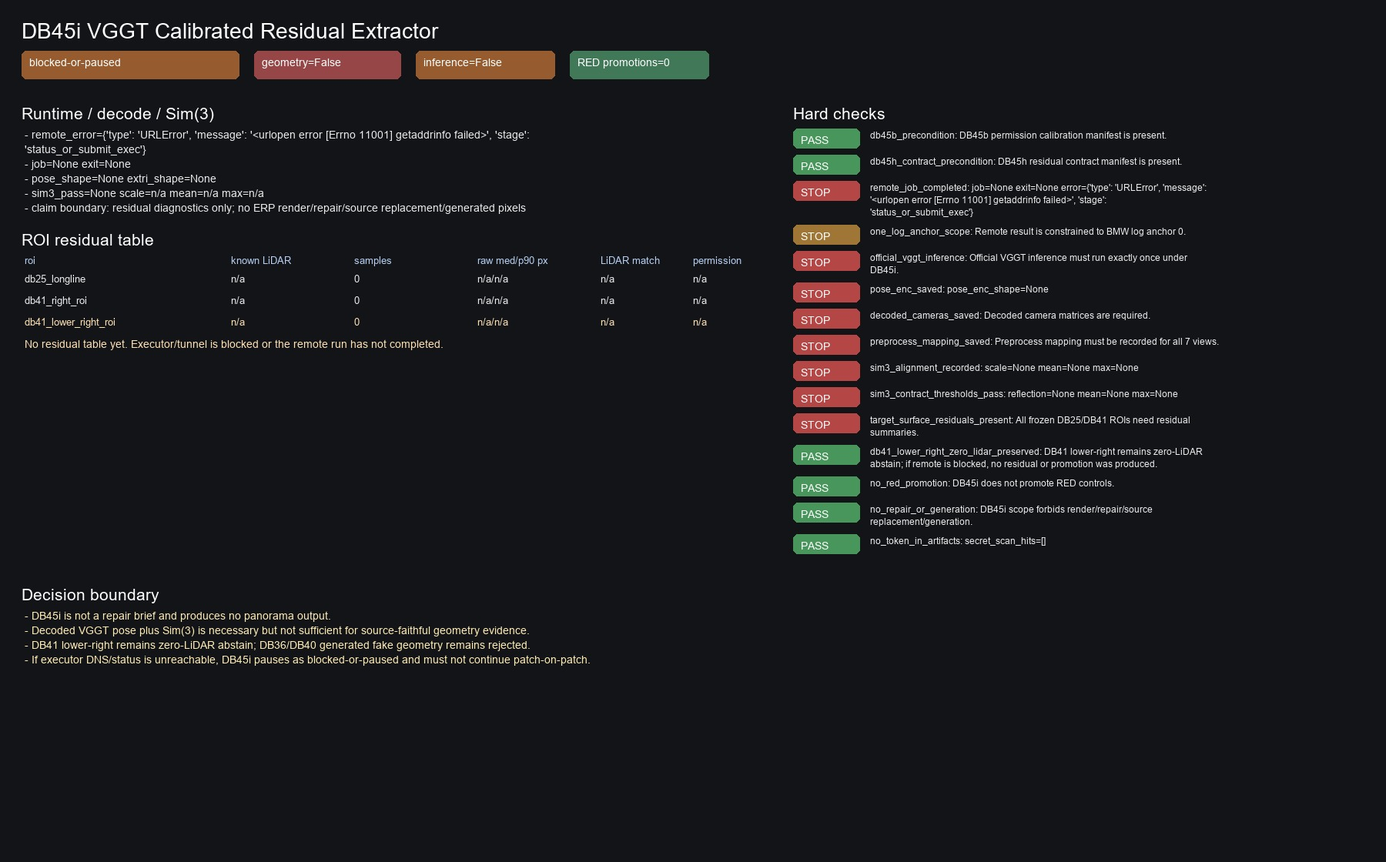
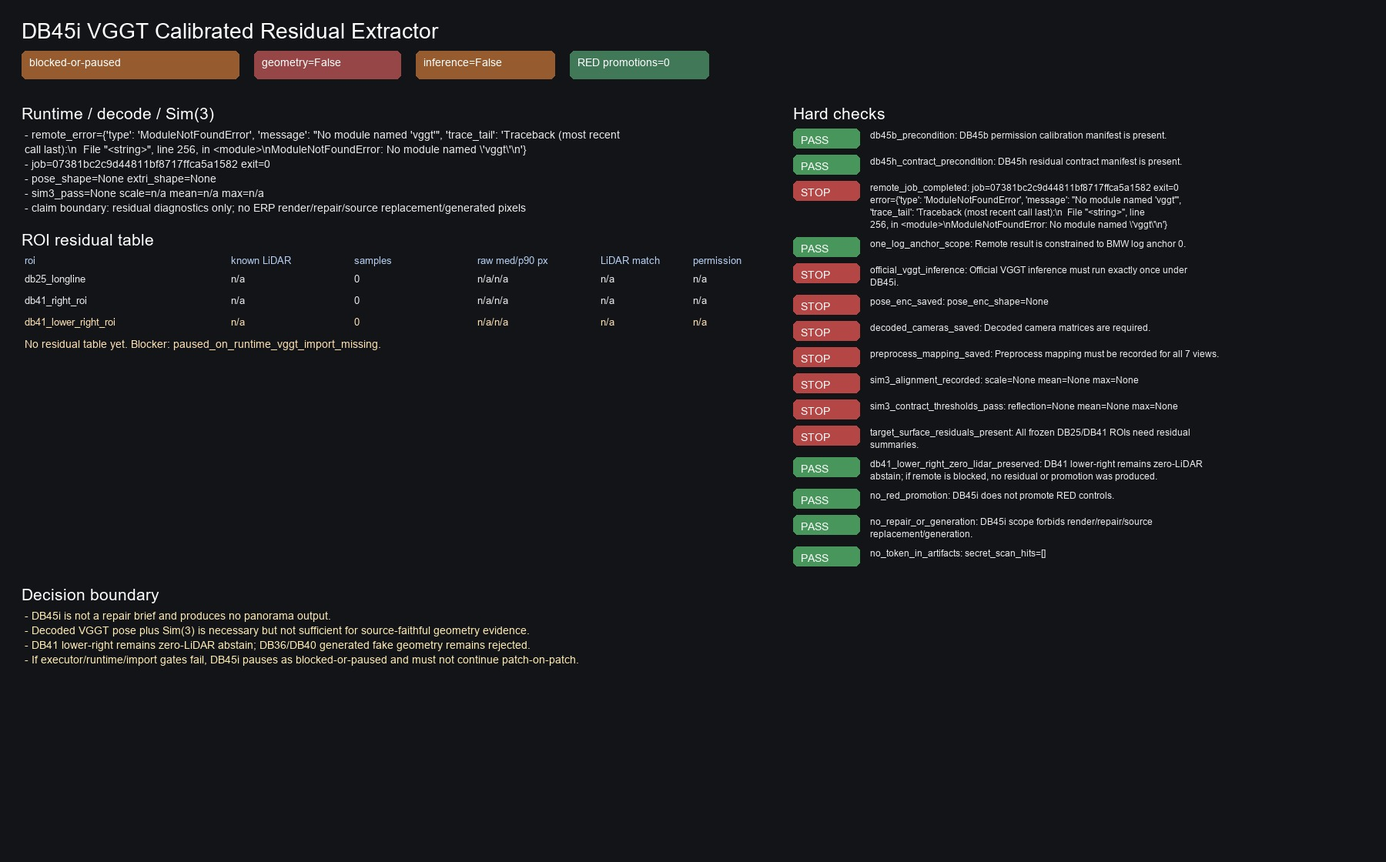
Record DB45i runtime import blocker

diff --git a/scripts/phase3/db45i_vggt_calibrated_residual_extractor.py b/scripts/phase3/db45i_vggt_calibrated_residual_extractor.py
@@ -829,6 +829,20 @@ def build_checks(remote: dict[str, Any], secret_hits: list[dict[str, str]]) -> l
     ]
 
 
+def classify_blocked_status(remote: dict[str, Any]) -> str:
+    error = remote.get("error") or {}
+    err_type = str(error.get("type") or "")
+    message = str(error.get("message") or "")
+    stage = str(error.get("stage") or "")
+    if err_type in {"URLError", "WebException"} or stage == "status_or_submit_exec" or "getaddrinfo" in message:
+        return "paused_on_executor_dns_or_connectivity"
+    if err_type == "ModuleNotFoundError" and "vggt" in message.lower():
+        return "paused_on_runtime_vggt_import_missing"
+    if remote.get("colab_job", {}).get("state"):
+        return "paused_on_remote_runtime_or_extractor_blocker"
+    return "blocked_or_paused_no_remote_result"
+
+
 def build_manifest() -> dict[str, Any]:
     remote = read_json(REMOTE_RESULT) if REMOTE_RESULT.exists() else {
         "db": "DB-45i",
@@ -903,7 +917,7 @@ def build_manifest() -> dict[str, Any]:
         temp["decision"]["db45_status"] = "running"
     else:
         temp["decision"]["accepted_evidence_type"] = "blocked-or-paused"
-        temp["decision"]["db45_status"] = "paused_on_executor_dns"
+        temp["decision"]["db45_status"] = classify_blocked_status(remote)
     if geometry_accepted:
         temp["decision"]["geometry_candidate_note"] = "All extractor hard checks passed, but DB45i still records no permission promotion; a separate permission update would be required."
     temp["decision"]["permission_state_changes"] = "none"
@@ -968,7 +982,7 @@ def build_board(manifest: dict[str, Any]) -> None:
             draw.text((x, y), value, fill=color, font=font(13))
         y += 28
     if not rois:
-        y = draw_wrapped(draw, 32, y, "No residual table yet. Executor/tunnel is blocked or the remote run has not completed.", 120, (255, 225, 180), 14)
+        y = draw_wrapped(draw, 32, y, f"No residual table yet. Blocker: {decision.get('db45_status')}.", 120, (255, 225, 180), 14)
 
     x2, y2 = 1030, 135
     draw.text((x2, y2), "Hard checks", fill=(255, 255, 255), font=font(21))
@@ -989,7 +1003,7 @@ def build_board(manifest: dict[str, Any]) -> None:
         "DB45i is not a repair brief and produces no panorama output.",
         "Decoded VGGT pose plus Sim(3) is necessary but not sufficient for source-faithful geometry evidence.",
         "DB41 lower-right remains zero-LiDAR abstain; DB36/DB40 generated fake geometry remains rejected.",
-        "If executor DNS/status is unreachable, DB45i pauses as blocked-or-paused and must not continue patch-on-patch.",
+        "If executor/runtime/import gates fail, DB45i pauses as blocked-or-paused and must not continue patch-on-patch.",
     ]:
         y3 = draw_wrapped(draw, 32, y3, "- " + line, 128, (255, 235, 180), 14, 5)
 

diff --git a/agent/decision_briefs.md b/agent/decision_briefs.md
@@ -89,7 +89,7 @@ Completed substeps under this brief:
 - DB45f VGGT target-ROI owner-UV sampling gate: accepted target-pixel VGGT metadata as diagnostic-only; confidence-only RED promotion killed; no geometry evidence, no RED promotion.
 - DB45g VGGT pose/pointmap metric-residual readiness gate: accepted official-source decode-path diagnostic-only; actual pose tensors/decoded extrinsics still missing; no inference, no geometry evidence, no RED promotion.
 - DB45h VGGT calibrated residual job contract gate: accepted residual-job contract-only; defines pose/decode/preprocess/rig/residual requirements; no inference, no geometry evidence, no RED promotion.
-- DB45i VGGT calibrated residual extractor: paused on executor DNS before `/status`/`/exec`; no model action, no pose/decode/Sim(3)/residual evidence, no permission change, no RED promotion.
+- DB45i VGGT calibrated residual extractor: latest A100 endpoint reached `/status` and submitted one `/exec` job, but the remote runtime failed before inference with `ModuleNotFoundError: No module named 'vggt'`; no pose/decode/Sim(3)/residual evidence, no permission change, no RED promotion.
 
 Parked future subtracks under this brief unless split later:
 - Geometry foundation evidence job: VGGT / Fast3R / CUT3R pointmaps, tracks, confidence, and multi-view consistency.
@@ -136,13 +136,13 @@ Max scope:
 - Phase8 sub-scope / DB45h (2026-06-04): VGGT calibrated residual job contract gate v0. Question: after DB45g documents the official decode path but shows that DB45f did not save pose tensors/decoded extrinsics, can we define the minimal future residual extractor contract that would make VGGT pointmaps admissible as evidence rather than confidence-only metadata? Hypothesis: a contract can be specified now: a future bounded extractor must save `pose_enc`, decoded extrinsics/intrinsics, preprocessing transforms, camera-center Sim(3) alignment to the Waymo rig, LiDAR/raw reprojection residuals, and control-specific permission deltas. The contract itself will not accept geometry evidence because no new inference or decoded tensors are produced. Why now: executor/tunnel is unavailable, but the project can still prevent the next A100 run from becoming open-ended or overclaiming. Expected evidence: CPU/local manifest and board with required fields, alignment/residual schema, thresholds, no-run checks, DB25/DB41/DB36/DB40 control behavior, and explicit next-brief requirements. Kill criteria: contract treats VGGT world points as metric ego truth without Sim(3)/LiDAR/raw residuals; allows confidence/owner-UV/detector-clean to promote RED; fails to preserve DB41 lower-right zero-LiDAR abstain; launders DB36/DB40 generated fake geometry; authorizes residual inference under DB45h; produces repaired ERP/render/source replacement/generated output; exceeds CPU/local schema scope; DB32/G claims are overstated. Max scope: CPU/local only, existing DB45 artifacts only, one script/manifest/board; no network dependency beyond already inspected official-source facts, no A100, no model load/download/inference, no renderer/repair/source replacement/diffusion, no permission promotion. Required vision check: board must show the contract ladder, required hard checks, DB41/DB25 control outcomes, and `no inference/no geometry/no RED promotion` labels. Output location: `deliverables/dit360_v2/db45_geometry_evidence_audit/`.
 - Phase8 result (2026-06-04): DB45h accepted **vggt-residual-job-contract-only** diagnostic evidence. CPU/local script `scripts/phase3/db45h_vggt_residual_job_contract_gate.py` produced the future extractor contract and board without model action. Required future saved outputs are `pose_enc`, decoded extrinsics/intrinsics, preprocessing mapping, Waymo rig extrinsics, and LiDAR/raw residuals; required ladder is official decode -> camera centers -> Sim(3) rig alignment -> target-surface LiDAR/raw residuals. DB25/DB41 remain `RED/abstain`, DB41 lower-right remains zero-LiDAR abstain, DB36/DB40 generated controls remain rejects, and DB32 remains caveated handoff. `accepted_db45_geometry_evidence=false`, `runtime_ready=false`, `model_inference_ran=false`, `permission_state_changes=none`, `red_promotions=[]`. Detail archived at top of `progress.md`.
 - Phase9 sub-scope / DB45i (2026-06-04): VGGT calibrated residual extractor v0. Question: with DB45h's contract frozen and an A100 offered, can one bounded official VGGT run save `pose_enc`, decode camera extrinsics/intrinsics through the official path, align VGGT camera centers to the Waymo rig by Sim(3), and produce target-surface LiDAR/raw residual diagnostics strong enough to change any DB45 permission state? Hypothesis: the extractor will likely be useful as a calibration diagnostic but will not promote DB25/DB41 because DB41 lower-right has zero LiDAR support and DB25/DB41 right have sparse target-surface support; however, it can kill or justify the VGGT residual route with actual decoded pose tensors rather than confidence-only metadata. Why now: DB45e/f killed VGGT confidence-only promotion; DB45g/h established the decode path and required contract; the only remaining VGGT path that could matter is calibrated residual evidence. Expected evidence: one BMW log/anchor A100 inference result or a paused DNS/tunnel record; saved pose tensor shape/sample, decoded extrinsics/intrinsics shape/sample, preprocessing mapping, AV2/Waymo rig camera centers, Sim(3) scale/RMS/max/per-camera residuals, owner-UV point residual summaries, sparse LiDAR residual summaries per DB25/DB41 ROI, generated-control boundary, no-token scan, and a board. Kill criteria: executor DNS/status is unreachable; official `pose_encoding_to_extri_intri` cannot decode `pose_enc`; decoded camera centers cannot be aligned to AV2/Waymo rig with recorded Sim(3); reflection/degenerate scale is accepted; Sim(3) RMS or max residual exceeds the contract threshold; LiDAR/raw target-surface residuals are missing but RED is promoted; confidence/owner-UV validity/detector-clean alone promotes RED; DB41 lower-right is promoted despite zero LiDAR support; DB36/DB40 generated fake geometry is laundered; output includes repaired ERP, renderer image, source replacement, diffusion/refiner, generated pixels, or prompt-only seam repair; more than one log/anchor or retry job is used under this sub-scope; DB32/G claims are overstated. Max scope: one A100 inference/extractor job if executor is reachable, one log/anchor (`02a00399...`, anchor 0), 7 raw ring cameras, frozen DB25/DB41 ROIs plus DB36/DB40 non-admissible controls, compact JSON recovery only if log truncates; no repaired panorama, no renderer output, no source replacement, no diffusion/refiner, no promotion unless DB45b target-surface support and DB45h residual gates pass. Required vision check: board must show decode status, Sim(3) alignment, ROI residual table, DB41 lower-right zero-LiDAR boundary, generated-control rejection, and `no repair/no generation/no RED promotion unless residual gates pass` labels. Output location: `deliverables/dit360_v2/db45_geometry_evidence_audit/`.
-- Phase9 status (2026-06-04): DB45i is **blocked-or-paused on executor DNS**, with no model action. Added `scripts/phase3/db45i_vggt_calibrated_residual_extractor.py` and generated local manifest/board plus sanitized remote-result/reachability records. The bounded remote attempts stopped before `/status`/`/exec` because the provided tunnel hostnames failed DNS resolution; therefore `model_inference_ran=false`, no `pose_enc` tensor was saved, no decoded extrinsics/intrinsics or Sim(3) residuals exist, and no target-surface residual evidence was accepted. The latest goal-continuation endpoint precheck again failed both sandboxed and approved non-sandbox `GET /status` with DNS resolution failure, so DB45i `--run-remote` was not executed and no `/exec` job was submitted. `accepted_db45_diagnostic_evidence=false`, `accepted_db45_geometry_evidence=false`, `runtime_ready=false`, `model_inference_ran=false`, `permission_state_changes=none`, `red_promotions=[]`. DB45 is paused on executor DNS for VGGT residuals; re-run only the same DB45i `--run-remote` after `/status` reachability is independently confirmed, and do not continue patch-on-patch. Detail archived at top of `progress.md`.
+- Phase9 status (2026-06-04): DB45i is **blocked-or-paused on runtime VGGT import**, not on DNS for the latest attempt. Added `scripts/phase3/db45i_vggt_calibrated_residual_extractor.py` and generated local manifest/board plus sanitized remote-result/reachability records. Earlier bounded remote attempts stopped before `/status`/`/exec` because provided tunnel hostnames failed DNS resolution. The latest user-provided A100 endpoint passed approved non-sandbox `/status` and submitted one DB45i `/exec` job (`07381bc2c9d44811bf8717ffca5a1582`, exit `0`), but the remote runtime failed before official VGGT inference with `ModuleNotFoundError: No module named 'vggt'`. Therefore `model_inference_ran=false`, no `pose_enc` tensor was saved, no decoded extrinsics/intrinsics or Sim(3) residuals exist, and no target-surface residual evidence was accepted. `accepted_db45_diagnostic_evidence=false`, `accepted_db45_geometry_evidence=false`, `runtime_ready=false`, `model_inference_ran=false`, `permission_state_changes=none`, `red_promotions=[]`. DB45i must not continue patch-on-patch by ad hoc installing/rerunning under the same sub-scope; any runtime bootstrap/cache restore plus residual retry needs a fresh bounded brief or explicitly scoped setup replay. Detail archived at top of `progress.md`.
 
 Required vision check:
 - Board must include raw-camera support crop, LiDAR/depth/flow evidence overlays if available, model confidence overlay, and final permission-state label.
 - Mandatory visual check on DB41 lower-right and DB36/DB40 fake-geometry negatives.
 
-Result summary: DB45 is paused on DB45i executor DNS/connectivity after repeated sandboxed/approved network attempts and the latest goal-continuation endpoint `/status` precheck again failed DNS resolution before any `/exec` job. This is not a VGGT/model negative and accepts no geometry evidence. Re-run only the same DB45i `--run-remote` after `/status` reachability is independently confirmed; do not continue patch-on-patch.
+Result summary: DB45 is paused after DB45i reached the latest A100 executor but hit a remote runtime import blocker (`vggt` not installed/importable) before official VGGT inference. This is not a VGGT/model negative and accepts no geometry evidence. Do not continue patch-on-patch; a runtime bootstrap/cache restore plus residual retry requires a fresh bounded brief or explicitly scoped setup replay.
 
 # DB-46: BMW meeting presentation-only micro cleanup
 Status: proposed

diff --git a/agent/plans/2026-06-04-egsr-seam-and-route-roadmap.md b/agent/plans/2026-06-04-egsr-seam-and-route-roadmap.md
@@ -33,7 +33,7 @@ DB43 locks these next-step constraints: DB32 `s40` is caveated handoff/source-si
 
 DB44 Layer-aware seam routing / EGSR dispatcher v0 is completed and accepted as a CPU-only dispatcher dry-run gate. Outputs are under `deliverables/dit360_v2/db44_layer_aware_dispatcher/`, with script `scripts/phase3/db44_layer_aware_dispatcher.py`. DB44 did not repair or generate a new ERP; it mapped 29 DB43 known cases into layer/evidence/operator/claim components, kept DB41 RED/abstain, and executed no operators.
 
-DB45 is now paused on DB45i executor DNS after completing phase0 and DB45a-i readiness/diagnostic/contract substeps. Its phase0 evidence-only control/registry pass is completed: outputs are under `deliverables/dit360_v2/db45_geometry_evidence_audit/`, with script `scripts/phase3/db45_geometry_evidence_audit.py`. DB45 v0 fixed 8 controls, registered reusable evidence sources, verified A100 live/env/cache state only, and kept all permission states unchanged (`GREEN=1`, `YELLOW=2`, `RED=5`; no RED promotion; no foundation-model confidence claimed).
+DB45 is now paused after DB45i reached the latest A100 executor but failed before official VGGT inference because the remote runtime could not import `vggt`. Its phase0 evidence-only control/registry pass is completed: outputs are under `deliverables/dit360_v2/db45_geometry_evidence_audit/`, with script `scripts/phase3/db45_geometry_evidence_audit.py`. DB45 v0 fixed 8 controls, registered reusable evidence sources, verified A100 live/env/cache state only, and kept all permission states unchanged (`GREEN=1`, `YELLOW=2`, `RED=5`; no RED promotion; no foundation-model confidence claimed).
 
 DB45a VGGT evidence feasibility gate is completed as a current-runtime **no-go**. Outputs are under `deliverables/dit360_v2/db45_geometry_evidence_audit/`, with script `scripts/phase3/db45a_vggt_feasibility_gate.py`. This is not a VGGT model negative: it records that the current Colab runtime has A100/data/repo access and the user-provided HF token is valid, but the remote repo is stale, `vggt` is not importable, the cached VGGT repo tarball is invalid/0-byte, HF Commercial checkpoint file access is still gated/403, no checkpoint cache is present, and the existing VGGT wrapper uses uniform confidence. No install/download/inference was run, no DB45 evidence was accepted, and no permission state changed.
 
@@ -47,7 +47,7 @@ DB45e VGGT frozen-ROI confidence probe is completed and accepted as **vggt-roi-c
 
 DB45f VGGT target-ROI owner-UV sampling gate is completed and accepted as **vggt-target-uv-sampling-diagnostic-only** evidence. Outputs are under `deliverables/dit360_v2/db45_geometry_evidence_audit/`, with script `scripts/phase3/db45f_vggt_target_uv_sampling_gate.py`. The saved A100 inference result was recovered without rerunning VGGT. DB45f samples official VGGT maps at source-owner raw-camera UV pixels used by the frozen ERP seam ROIs and records official preprocessing mapping, but it remains model-diagnostic metadata only: no geometry evidence accepted, no repaired panorama, no source replacement, no RED promotion. It kills VGGT confidence-only RED promotion. DB25/DB41 remain `RED/abstain`, DB41 lower-right remains zero-LiDAR abstain, and DB36/DB40 remain generated fake-geometry rejects.
 
-DB45 is **paused** by executor DNS/tunnel availability after DB45i repeatedly stopped before `/status`/`/exec`, including the latest goal-continuation reachability precheck where both sandboxed and approved non-sandbox `GET /status` failed DNS before any `/exec` job; this is not a VGGT/model negative and accepts no geometry evidence. DB45g is completed as **vggt-official-source-decode-path-diagnostic-only**: official source documents a pose/camera decode path, but DB45f did not store pose tensors/decoded extrinsics and runtime source/API inspection remains blocked by executor DNS/tunnel availability. DB45h is completed as **vggt-residual-job-contract-only**: it defines the future extractor contract but accepts no geometry evidence. DB45i is the first calibrated residual extractor but accepts only a paused connectivity record: no pose tensor, decoded camera, Sim(3), LiDAR/raw residual, model inference, geometry evidence, permission change, or RED promotion exists yet. The next VGGT action should be only the same DB45i `--run-remote` extractor after `/status` reachability is independently confirmed. Owner-camera confidence and target-ROI owner-UV model confidence are both now known insufficient for promotion. DB47 is now running as the source/frame candidate-mining sidestep route. DB46/DB48 remain side branches for presentation-only or center-preserve experiments and should not jump ahead unless the user explicitly switches priority for meeting/demo needs.
+DB45 is **paused** after DB45i reached the latest A100 executor (`/status` passed and one `/exec` job was submitted) but the remote runtime failed before official VGGT inference with `ModuleNotFoundError: No module named 'vggt'`; this is not a VGGT/model negative and accepts no geometry evidence. DB45g is completed as **vggt-official-source-decode-path-diagnostic-only**: official source documents a pose/camera decode path, but DB45f did not store pose tensors/decoded extrinsics. DB45h is completed as **vggt-residual-job-contract-only**: it defines the future extractor contract but accepts no geometry evidence. DB45i is the first calibrated residual extractor but currently accepts only a paused runtime/import blocker record: no pose tensor, decoded camera, Sim(3), LiDAR/raw residual, model inference, geometry evidence, permission change, or RED promotion exists yet. The next VGGT action should not be an ad hoc DB45i patch-on-patch; it needs a fresh bounded runtime-bootstrap/cache-restore plus residual-retry brief or explicitly scoped setup replay. Owner-camera confidence and target-ROI owner-UV model confidence are both now known insufficient for promotion. DB47 is now running as the source/frame candidate-mining sidestep route. DB46/DB48 remain side branches for presentation-only or center-preserve experiments and should not jump ahead unless the user explicitly switches priority for meeting/demo needs.
 
 DB47b is completed and accepted as **source-selection-threshold-replay-only** evidence. It freezes the existing DB31 22-row shortlist as the bounded candidate universe, with DB27/DB28 only as same-log comparison context, and reports 7 strict review-bucket rows, 3 relaxed review-bucket rows, and 12 rejected/diagnostic rows. DB47c is completed and accepted as **source-selection-visual-accounting-only** evidence. It reviews all 22 DB47b rows with existing DB28/DB31 visual assets only: 3 strict rows have exact same-log review assets, 4 strict rows are montage-only holds, 3 relaxed rows are holds, and 12 rows remain rejected/diagnostic. DB47d is completed and accepted as **source-selection-exact-review-pack-only** evidence. It reviews the 10 strict/relaxed same-log rows with DB47c plus existing DB28 exact assets only: 3 exact-review candidates (`a105`, `a200`, `a204`) remain not-final, and 7 rows remain missing-exact holds. These are review/accounting gates only: DB47b/c/d select no final panorama, perform no new dataset scan, generation, repair, source replacement, permission change, or RED promotion, and do not claim original-G seam repair. DB47 remains running only if a later brief opens a stricter final-candidate review, a fixed-universe full scan, or DB47 pause/DB49 packaging; do not choose a final candidate from DB47 metrics, montage-only evidence, or review-pack labels.
 
@@ -251,7 +251,7 @@ If a presentation-only classic BMW attempt is opened, base selection must be a b
 
 ## 4. Planned Decision Brief Sequence
 
-These are roadmap items, not direct execution commands. DB43 and DB44 are completed and accepted; DB45 is paused on executor DNS after DB45i, and DB47 is the current running source/frame candidate-mining sidestep brief. Any remaining item must become or remain a live decision brief before work starts.
+These are roadmap items, not direct execution commands. DB43 and DB44 are completed and accepted; DB45 is paused after DB45i reached the latest executor but hit a remote runtime `vggt` import blocker, and DB47 is the current running source/frame candidate-mining sidestep brief. Any remaining item must become or remain a live decision brief before work starts.
 
 ### DB-43: Source-Faithfulness Eval v2 / Fake-Geometry Gate + EGSR triage (completed / accepted 2026-06-04)
 
@@ -311,7 +311,7 @@ These are roadmap items, not direct execution commands. DB43 and DB44 are comple
 - DB45f VGGT target-ROI owner-UV sampling gate: accepted diagnostic-only target-pixel VGGT metadata; confidence-only RED promotion killed; no geometry evidence, no RED promotion.
 - DB45g VGGT pose/pointmap metric-residual readiness gate: accepted official-source decode-path diagnostic-only; runtime source/API inspection still blocked by executor/tunnel availability; DB45f has pose keys but no stored pose tensor/decoded extrinsics; no inference, no geometry evidence, no RED promotion.
 - DB45h VGGT calibrated residual job contract gate: accepted residual-job contract-only; future extractor must save pose/decode/preprocess/rig/residual fields and pass Sim(3) rig alignment plus LiDAR/raw target-surface residuals; no inference, no geometry evidence, no RED promotion.
-- DB45i VGGT calibrated residual extractor: opened but blocked-or-paused on executor DNS before `/status`/`/exec`; repeated fresh A100 endpoint rechecks still failed DNS before `/status`/`/exec`; local extractor contract/manifest/board exist; no model action, no pose/decode/Sim(3)/residual evidence, no permission change, no RED promotion. Re-run only the same DB45i `--run-remote` when `/status` reachability is independently confirmed.
+- DB45i VGGT calibrated residual extractor: opened and latest A100 endpoint reached `/status` plus one `/exec` job, but the remote runtime failed before official VGGT inference with `ModuleNotFoundError: No module named 'vggt'`; local extractor contract/manifest/board exist; no model inference, no pose/decode/Sim(3)/residual evidence, no permission change, no RED promotion. Do not ad hoc install/rerun under DB45i; next VGGT residual attempt needs a fresh bounded runtime-bootstrap/cache-restore plus residual-retry brief or explicitly scoped setup replay.
 
 **Parked future subtracks under DB-45 unless split into separate briefs or resumed under DB45i after executor recovery:**
 

diff --git a/agent/handoff.md b/agent/handoff.md
@@ -3,9 +3,9 @@
 > ## 2026-06-04 CURRENT EGSR STATE - read before older banners
 > Current execution is anchored to `Waymo2Panorama` Waymo-style data/artifacts/calibration/ROIs, not a generic AV2 assumption. DB32 `s40` is the Bosch-facing presentation/handoff candidate with source-sidestep + generated-sky caveats; it is not a fully source-faithful panorama, not a source-faithful ceiling, and not an original `G_bmw_pano` seam repair. `G_bmw_pano` is only the classic BMW failure / diagnostic reference and has been visually rejected as the default repair base.
 >
-> DB43 Source-Faithfulness Gate and DB44 EGSR dispatcher are accepted. DB45 Geometry foundation evidence audit is paused on DB45i executor DNS before `/status`/`/exec`: completed DB45 substeps DB45a-i accept only no-go/permission/readiness/diagnostic/contract/blocked evidence, kill VGGT confidence-only RED promotion, and define the residual extractor contract, but still accept no target-surface geometry evidence, no metric ego truth, no source-faithful repair permission, no permission-state change, and no RED promotion. The latest goal-continuation reachability precheck again failed DNS on `GET /status` in both sandboxed and approved non-sandbox network; no `/exec` request, remote job, model inference, pose/decode/Sim(3), residual table, or geometry evidence exists. DB45i may be rerun only as the same bounded `--run-remote` extractor after a reachable executor endpoint is independently confirmed: it must save pose tensors/decoded extrinsics, align VGGT camera centers to the Waymo rig by Sim(3), and compare target-surface samples to LiDAR/raw residuals before any geometry claim. DB47 source/frame candidate mining is running as the CPU/local sidestep route; DB47a accepted only `source-selection-inventory-only`, DB47b accepted only `source-selection-threshold-replay-only`, DB47c accepted only `source-selection-visual-accounting-only`, and DB47d accepted only `source-selection-exact-review-pack-only` evidence. DB47d reviews the 10 strict/relaxed same-log rows: only `a105`, `a200`, and `a204` have exact DB28 compare evidence, while the other 7 rows remain missing-exact holds. DB47d selects no final candidate and performs no full scan, repair, generation, source replacement, permission change, or RED promotion. DB49a is completed as `bosch-data-contract-inventory-only`; DB49b is completed as `sidecar-starter-pack-partial-only`, creating only partial DB32 `generated_mask`, `unknown_or_abstain_mask`, and `risk_map` sidecars from existing sky-mask/out-of-FOV/DB41 evidence; DB49c is completed as `source-id-map-feasibility-inventory-only`, finding no complete per-pixel `source_id_map` artifact for the exact DB32 lineage and creating no map; DB49d is completed as `source-map-instrumentation-only`, adding default-off `_seamroute.py` provenance sidecar export for future exact reruns but creating no DB32 map. DB49c records DB28/DB41 camera labels as ROI diagnostic/count evidence only, DB34 source preservation as not an owner map, and DB49d sidecar support as future reproducible support only, not a DB32 owner artifact until an exact lineage rerun validates it. DB49 creates no repaired image, no generated pixels beyond existing DB32 sky caveats, no permission-state change, and no RED promotion; DB32 `s40` remains not uncaveated Bosch training data. DB28/DB32 remain source-sidestep/current-handoff evidence only, not original-G seam repair and not a source-faithful ceiling. DB25/DB41 remain `RED/abstain`; DB41 lower-right remains zero-LiDAR abstain; DB36/DB40 remain generated fake-geometry rejects.
+> DB43 Source-Faithfulness Gate and DB44 EGSR dispatcher are accepted. DB45 Geometry foundation evidence audit is paused after DB45i reached the latest A100 executor (`/status` passed and one `/exec` job was submitted) but the remote runtime failed before official VGGT inference with `ModuleNotFoundError: No module named 'vggt'`: completed DB45 substeps DB45a-i accept only no-go/permission/readiness/diagnostic/contract/blocked evidence, kill VGGT confidence-only RED promotion, and define the residual extractor contract, but still accept no target-surface geometry evidence, no metric ego truth, no source-faithful repair permission, no permission-state change, and no RED promotion. DB45i has no `pose_enc`, decoded cameras, preprocessing mapping, Sim(3), residual table, or geometry evidence. DB45i must not continue patch-on-patch by ad hoc installing/rerunning under the same sub-scope; any runtime bootstrap/cache restore plus residual retry needs a fresh bounded brief or explicitly scoped setup replay. DB47 source/frame candidate mining is running as the CPU/local sidestep route; DB47a accepted only `source-selection-inventory-only`, DB47b accepted only `source-selection-threshold-replay-only`, DB47c accepted only `source-selection-visual-accounting-only`, and DB47d accepted only `source-selection-exact-review-pack-only` evidence. DB47d reviews the 10 strict/relaxed same-log rows: only `a105`, `a200`, and `a204` have exact DB28 compare evidence, while the other 7 rows remain missing-exact holds. DB47d selects no final candidate and performs no full scan, repair, generation, source replacement, permission change, or RED promotion. DB49a is completed as `bosch-data-contract-inventory-only`; DB49b is completed as `sidecar-starter-pack-partial-only`, creating only partial DB32 `generated_mask`, `unknown_or_abstain_mask`, and `risk_map` sidecars from existing sky-mask/out-of-FOV/DB41 evidence; DB49c is completed as `source-id-map-feasibility-inventory-only`, finding no complete per-pixel `source_id_map` artifact for the exact DB32 lineage and creating no map; DB49d is completed as `source-map-instrumentation-only`, adding default-off `_seamroute.py` provenance sidecar export for future exact reruns but creating no DB32 map. DB49c records DB28/DB41 camera labels as ROI diagnostic/count evidence only, DB34 source preservation as not an owner map, and DB49d sidecar support as future reproducible support only, not a DB32 owner artifact until an exact lineage rerun validates it. DB49 creates no repaired image, no generated pixels beyond existing DB32 sky caveats, no permission-state change, and no RED promotion; DB32 `s40` remains not uncaveated Bosch training data. DB28/DB32 remain source-sidestep/current-handoff evidence only, not original-G seam repair and not a source-faithful ceiling. DB25/DB41 remain `RED/abstain`; DB41 lower-right remains zero-LiDAR abstain; DB36/DB40 remain generated fake-geometry rejects.
 >
-> Next DB45 work must wait for independently confirmed `/status` reachability or a fresh bounded evidence brief; do not continue DB45i patch-on-patch. Next DB47 work, if opened, must be a stricter final-candidate review or a separately briefed fixed-universe full scan; do not choose a final candidate from DB47b/c/d metrics, montage-only evidence, or review-pack labels alone. Next DB49 work, if opened, must either run a bounded exact-lineage rerun using the DB49d sidecar support to build a real `source_id_map`/full masks from source-ownership evidence or package a human-facing handoff while keeping missing fields explicit; do not narratively fill `source_id_map`, `unknown_or_abstain_mask`, or `risk_map`. Do not reopen prompt-only DiT/FLUX ground/curb/lane/right-line repair, and do not continue any direction after kill criteria without archiving it in `progress.md`.
+> Next DB45 work must first open a fresh bounded runtime-bootstrap/cache-restore plus residual-retry brief, or explicitly scope a setup replay, because `/status` is no longer the latest blocker but `vggt` import is. Do not continue DB45i patch-on-patch. Next DB47 work, if opened, must be a stricter final-candidate review or a separately briefed fixed-universe full scan; do not choose a final candidate from DB47b/c/d metrics, montage-only evidence, or review-pack labels alone. Next DB49 work, if opened, must either run a bounded exact-lineage rerun using the DB49d sidecar support to build a real `source_id_map`/full masks from source-ownership evidence or package a human-facing handoff while keeping missing fields explicit; do not narratively fill `source_id_map`, `unknown_or_abstain_mask`, or `risk_map`. Do not reopen prompt-only DiT/FLUX ground/curb/lane/right-line repair, and do not continue any direction after kill criteria without archiving it in `progress.md`.
 
 > ## 🔑 2026-06-03 — DRIVE / ACCOUNT MIGRATED to 1jingshuo1 (infra; read once)
 > Workspace `MyDrive/koi_waymo2pano_colab/` is **OWNED by `panq@usc.edu`**, now **shared (Editor) + shortcut'd into `1jingshuo1@gmail.com`'s My Drive** → the Colab path `/content/drive/MyDrive/koi_waymo2pano_colab/` is **identical under both accounts; scripts unchanged.** Operate under **1jingshuo1** going forward (Colab login + Claude Drive connector both = 1jingshuo1; verified 2026-06-03: mounts + **write-OK** + repo at `be82ba7`). The **Colab tunnel** (`url`+`token` in `runtime/active_url.json`) is **independent of the Drive account**. This is **ACCESS migration, NOT ownership** — data still physically lives in panq. ⚠ **If panq/USC access is ever lost** (cross-org usc→gmail ownership transfer is BLOCKED → must COPY): copy `results/dfwd_av2_finetune_v1/` (finetuned depth_net/gs_net, ~1.3 h A100, irreplaceable) + `cache/df_env_torch22cu121.tar.zst` (2.6 GB `df` env) into 1jingshuo1's OWN Drive; `data/argoverse2/` is the PUBLIC AV2 dataset (re-downloadable); don't touch `secrets/`. Full note → `README.md` §"Account & Drive access".

diff --git a/agent/progress.md b/agent/progress.md
@@ -1,5 +1,15 @@
 # Waymo2Panorama Progress
 
+> ### 2026-06-04 (DB-45i A100 executor reached - runtime missing `vggt` / no inference evidence)
+> **Goal:** after the user provided a currently reachable A100/Colab executor endpoint and HF token, resume only the already-open DB45i calibrated residual extractor under its existing one-log/one-anchor evidence-only scope.
+> **What ran:** one sandboxed `/status` precheck failed with a local network connection error, then one approved non-sandbox `/status` precheck succeeded against the user-provided executor. After that, one approved `scripts/phase3/db45i_vggt_calibrated_residual_extractor.py --run-remote --timeout-s 1200` submission ran under DB45i scope: one BMW log (`02a00399...`), anchor 0, 7 raw ring cameras, frozen DB25/DB41 ROIs, no renderer, no repaired ERP, no source replacement, no generated image, no diffusion/refiner, no permission change, and no RED promotion. The executor URL/token and HF token were used only as runtime secrets and were not written to artifacts.
+> **Result:** DNS/tunnel reachability is no longer the blocker for this attempt: `/status` passed and `/exec` submitted one A100 job (`07381bc2c9d44811bf8717ffca5a1582`, exit `0`). The remote DB45i code then failed before official VGGT inference with `ModuleNotFoundError: No module named 'vggt'`. Therefore no `pose_enc`, decoded extrinsics/intrinsics, preprocessing mapping, Sim(3) alignment, target-surface residual table, model inference evidence, geometry evidence, or permission evidence was produced. This is a runtime/import blocker, not a VGGT model negative, not an HF access negative, and not target-surface geometry evidence.
+> **Decision:** DB45i remains `blocked-or-paused`, now classified as `paused_on_runtime_vggt_import_missing`. `accepted_db45_diagnostic_evidence=false`, `accepted_db45_geometry_evidence=false`, `runtime_ready=false`, `model_inference_ran=false`, `permission_state_changes=none`, and `red_promotions=[]`. Per the kill rule, do not patch-on-patch by ad hoc installing/rerunning inside DB45i; any runtime bootstrap/retry must be a fresh bounded brief or explicitly scoped setup replay that archives this blocker first.
+> **Checks / vision:** fixed the DB45i local reporting classifier so blocked status distinguishes executor/connectivity failures from runtime/import failures, then rebuilt the manifest/board locally without another remote job. `py_compile` PASS. Reviewed `db45i_vggt_calibrated_residual_board.jpg`; it is nonblank/readable and shows blocked-or-paused, geometry=false, inference=false, RED promotions=0, remote `ModuleNotFoundError`, job exit 0, missing pose/decode/Sim(3)/residual blockers, DB41 lower-right zero-LiDAR preservation, no repair/generation, and no token hits.
+> **Deliverables updated:** `scripts/phase3/db45i_vggt_calibrated_residual_extractor.py`, `deliverables/dit360_v2/db45_geometry_evidence_audit/db45i_vggt_calibrated_residual_remote_result.json`, `db45i_vggt_calibrated_residual_manifest.json`, and `db45i_vggt_calibrated_residual_board.jpg`.
+> **Next:** the meaningful DB45 continuation is not another blind DB45i rerun. If DB45 remains the priority, open a new bounded brief for A100 runtime VGGT bootstrap/cache restore plus a single DB45i residual retry, with kill criteria for import/checkpoint/load drift, token leakage, no repair, no RED promotion, and no patch-on-patch.
+> ---
+
 > ### 2026-06-04 (DB-45i goal-continuation A100 endpoint recheck - DNS failed again / no job submitted)
 > **Goal:** after the user left the same A100/Colab executor endpoint available for possible later use, repeat only the required DB45i `/status` reachability gate before any `--run-remote` extractor action.
 > **What ran:** one sandboxed and one approved non-sandbox `GET /status` precheck against the current user-provided executor endpoint. The endpoint URL/token were used only as runtime secrets and were not written to artifacts. No `/exec` request was sent, no remote job id was created, no DB45i `--run-remote` job was started, and no HF/VGGT/model/checkpoint/inference action occurred.

diff --git a/agent/README.md b/agent/README.md
@@ -2,7 +2,7 @@
 
 > **TL;DR for agents new to this repo**: the 4 living docs are `handoff.md` + `progress.md` + `decision_briefs.md` + this `README.md` — write to those ONLY. Don't create new `.md` files under `deliverables/`. **Before starting any new experiment direction, open a brief in `decision_briefs.md` (the experiment gate — it has Kill criteria + Max scope).** Read the [rules below](#-rules-for-new-agents-per-user-2026-05-27) FIRST.
 
-> **Current pointer (2026-06-04):** read the top of `handoff.md`, `progress.md`, `decision_briefs.md`, and `plans/2026-06-04-egsr-seam-and-route-roadmap.md` before acting. DB43/DB44 are accepted; DB45 is paused on DB45i executor DNS before model action, including the latest goal-continuation `/status` reachability precheck, which again failed DNS before any `/exec` job. DB45e/f/g/h/i respectively accept only diagnostic/contract/blocked evidence and still accept no physical target-surface geometry evidence, no residual readiness, no source-faithful repair permission, and no RED promotion. DB47a-d are source/frame candidate-mining review/accounting gates only; DB47d reviews the 10 strict/relaxed same-log rows (`exact_review_candidate_not_final=3`, `missing_exact_hold=7`), selects no final candidate, and accepts no source-faithful repair. DB49a is `bosch-data-contract-inventory-only`; DB49b is `sidecar-starter-pack-partial-only`; DB49c is `source-id-map-feasibility-inventory-only`; DB49d is `source-map-instrumentation-only`, adding default-off `_seamroute.py` provenance sidecar export for future exact reruns but creating no DB32 source map. DB49 confirms DB32 `s40` can only be packaged as a caveated handoff candidate and remains not ready for uncaveated Bosch training-data use. DB28/DB41 camera labels are ROI diagnostics, not source ownership maps; DB49d instrumentation is future rerun support, not a recovered owner artifact. DB28/DB32 remain source-sidestep/current-handoff evidence only, not original-G seam repair or a source-faithful ceiling. DB25/DB41 remain `RED/abstain`, DB41 lower-right remains zero-LiDAR abstain, DB36/DB40 remain generated fake-geometry rejects.
+> **Current pointer (2026-06-04):** read the top of `handoff.md`, `progress.md`, `decision_briefs.md`, and `plans/2026-06-04-egsr-seam-and-route-roadmap.md` before acting. DB43/DB44 are accepted; DB45 is paused after DB45i reached the latest A100 executor (`/status` passed and one `/exec` job was submitted) but the remote runtime failed before official VGGT inference with `ModuleNotFoundError: No module named 'vggt'`. DB45e/f/g/h/i respectively accept only diagnostic/contract/blocked evidence and still accept no physical target-surface geometry evidence, no residual readiness, no source-faithful repair permission, and no RED promotion. DB45i has no `pose_enc`, decoded cameras, Sim(3), or target-surface residual table; do not patch-on-patch by ad hoc installing/rerunning under DB45i. DB47a-d are source/frame candidate-mining review/accounting gates only; DB47d reviews the 10 strict/relaxed same-log rows (`exact_review_candidate_not_final=3`, `missing_exact_hold=7`), selects no final candidate, and accepts no source-faithful repair. DB49a is `bosch-data-contract-inventory-only`; DB49b is `sidecar-starter-pack-partial-only`; DB49c is `source-id-map-feasibility-inventory-only`; DB49d is `source-map-instrumentation-only`, adding default-off `_seamroute.py` provenance sidecar export for future exact reruns but creating no DB32 source map. DB49 confirms DB32 `s40` can only be packaged as a caveated handoff candidate and remains not ready for uncaveated Bosch training-data use. DB28/DB41 camera labels are ROI diagnostics, not source ownership maps; DB49d instrumentation is future rerun support, not a recovered owner artifact. DB28/DB32 remain source-sidestep/current-handoff evidence only, not original-G seam repair or a source-faithful ceiling. DB25/DB41 remain `RED/abstain`, DB41 lower-right remains zero-LiDAR abstain, DB36/DB40 remain generated fake-geometry rejects.
 
 ---
 
